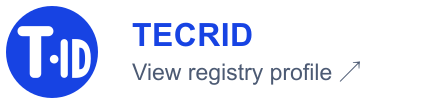
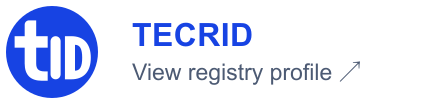
Simplify TECRID mark for small sizes

Changed region(s): [[0.0312, 0.1731, 0.2188, 0.7788]]

diff --git a/app/badge/page.tsx b/app/badge/page.tsx
@@ -17,8 +17,8 @@ export default async function BadgePage({ searchParams }: PageProps) {
     <main className="product-page badge-page">
       <ProductNav compact />
       <header className="badge-hero">
-        <div><p className="section-kicker light">A portable registry identity</p><h1>Put your TECRID profile where trust begins.</h1><p>The blue T·ID badge turns an email signature, proposal, supplier packet, or website footer into a direct path to the organization&apos;s opt-in TECRID profile.</p></div>
-        <div className="badge-hero-art"><img src="/brand/tecrid-id.svg" width="170" height="170" alt="Blue TECRID T ID mark" /><strong>TECRID</strong><span>Registry profile</span></div>
+        <div><p className="section-kicker light">A portable registry identity</p><h1>Put your TECRID profile where trust begins.</h1><p>The blue tID badge turns an email signature, proposal, supplier packet, or website footer into a direct path to the organization&apos;s opt-in TECRID profile.</p></div>
+        <div className="badge-hero-art"><img src="/brand/tecrid-id.svg" width="170" height="170" alt="Blue TECRID tID mark" /><strong>TECRID</strong><span>Registry profile</span></div>
       </header>
       <BadgeBuilder initialCode={code} />
       <section className="badge-boundary" aria-labelledby="badge-boundary-title">
